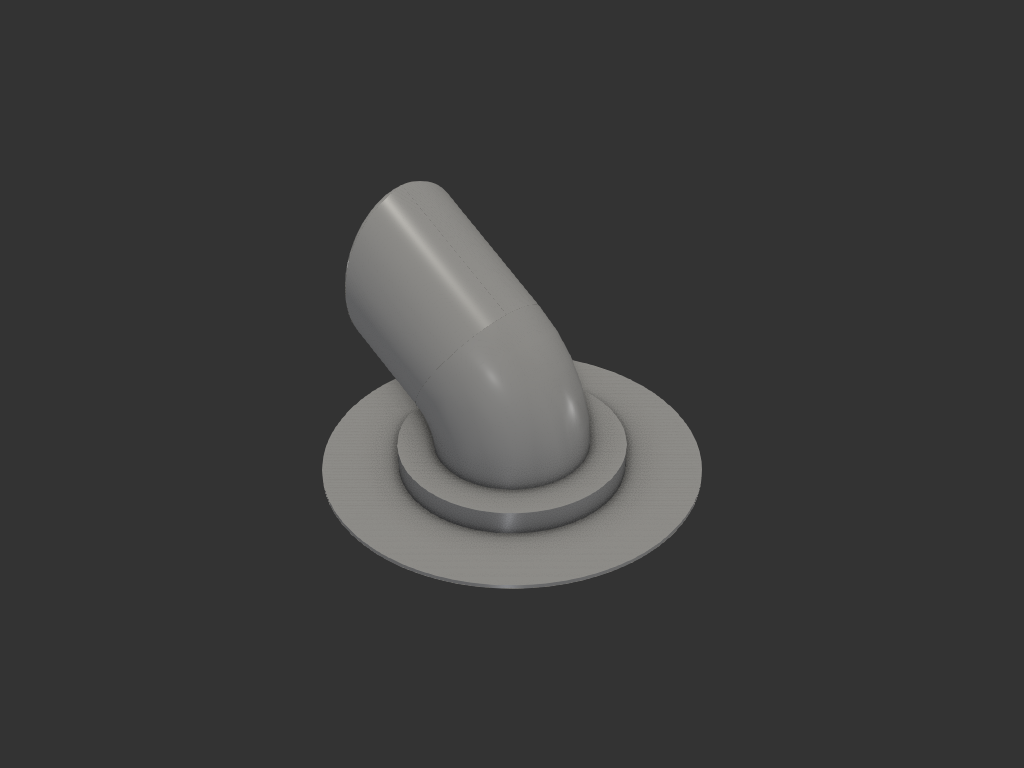
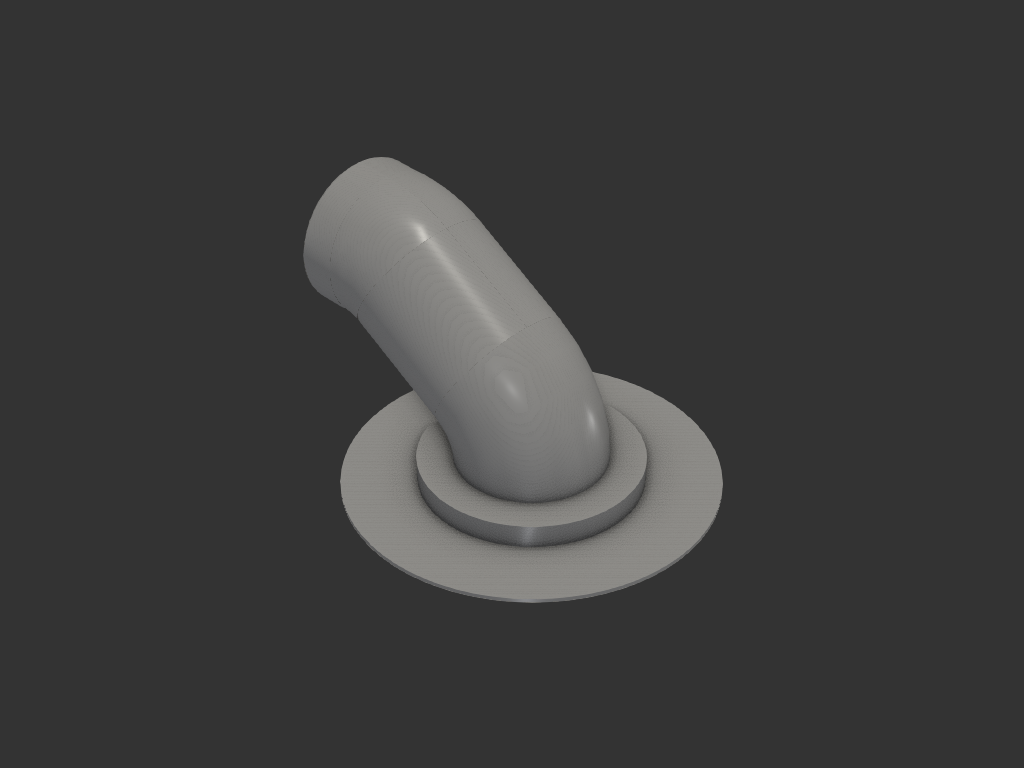
주방/식기세척기관_싱크대커버: 대각선 목 끝에서 수평으로 한 번 더 꺾기
출구 면을 지면에 수직으로 만들려고 대각선 목을 평면으로 잘라 두었는데,
그러면 단면이 타원이고 관이 비스듬히 꽂힌다. 대신 **R22 로 30° 더 꺾어
수평으로 만들고 10mm 직선**을 뽑았다 — 출구 면이 자연히 지면에 수직이 된다.

프로파일 계산은 빌더 밖으로 뺐다 (revolve 에 넘긴 스케치가 pending 에 남아
뒤따르는 연산이 그 면까지 집는다). NECK_OVER 와 수직 절단 박스는 필요 없어졌다.

상판 위 약 77, 중심에서 출구까지 약 58, PETG 약 31.6 g.
미확인: 싱크대 간섭, 굵은 호스 끝(⌀25.5) 통과, 서포트 없이 출력되는지

Claude-Session: https://claude.ai/code/session_01ADtXUDQy3sb4YV2DNysYDr

diff --git a/models/주방/식기세척기관_싱크대커버/cover.py b/models/주방/식기세척기관_싱크대커버/cover.py
@@ -56,6 +56,7 @@ from models.주방.식기세척기관_싱크대커버.params import (
     HOLE_D,
     MOUTH_FLARE,
     NECK_EXT,
+    HORIZ_EXT,
     NECK_WALL,
     NUT_H,
     NUT_FLUTE_R,
@@ -79,7 +80,6 @@ BOT = (Align.CENTER, Align.CENTER, Align.MIN)
 TOP = (Align.CENTER, Align.CENTER, Align.MAX)
 
 ELBOW_AXIS_PT = None
-NECK_OVER = 25.0        # 수직 절단 여유 — 비스듬히 잘리는 만큼 더 뽑아 둔다
 
 
 def build_cover():
@@ -98,6 +98,23 @@ def build_cover():
     oring = (Plane.XY * Circle((ORING_MEAN + ORING_W) / 2)
              - Plane.XY * Circle((ORING_MEAN - ORING_W) / 2))
 
+    th = math.radians(ELBOW_TURN)
+    tang = Vector(math.sin(th), 0, math.cos(th))
+    end_c = Vector(ELBOW_R - ELBOW_R * math.cos(th), 0,
+                   FLANGE_T + ELBOW_R * math.sin(th))
+    ext_pl = Plane(origin=end_c, z_dir=tang)
+    # 대각선 목 → 수평으로 한 번 더 꺾기 → 수평 목. 출구 면은 자연히 지면에 수직
+    p2 = end_c + tang * NECK_EXT
+    ctr2 = p2 + Vector(math.cos(th), 0, -math.sin(th)) * ELBOW_R
+    axis2 = Axis((ctr2.X, 0, ctr2.Z), (0, 1, 0))
+    turn2 = 90.0 - ELBOW_TURN
+    pl2 = Plane(origin=p2, z_dir=tang)
+    p3 = Vector(ctr2.X, 0, ctr2.Z + ELBOW_R)
+    pl3 = Plane(origin=p3, z_dir=(1, 0, 0))
+    x_cut = p3.X + HORIZ_EXT
+    prof2_out = pl2 * Circle(ELBOW_BORE / 2 + NECK_WALL)
+    prof2_in = pl2 * Circle(ELBOW_BORE / 2)
+
     with BuildPart() as part:
         # 칼라 — 나사 골지름 ⌀29.6. 파일럿 턱은 없다 (너트를 막았다).
         # 구멍 안에서의 중심은 나사산 꼭대기(⌀31.0)가 잡아준다
@@ -107,16 +124,13 @@ def build_cover():
             Cylinder(COLLAR_ROOT / 2, COLLAR_LEN - COLLAR_PILOT, align=TOP)
         Cylinder(FLANGE_D / 2, FLANGE_T, align=BOT)         # 플랜지 (상판 위)
         revolve(prof_out, axis=axis, revolution_arc=ELBOW_TURN)
-        th = math.radians(ELBOW_TURN)
-        tang = Vector(math.sin(th), 0, math.cos(th))
-        end_c = Vector(ELBOW_R - ELBOW_R * math.cos(th), 0,
-                       FLANGE_T + ELBOW_R * math.sin(th))
-        ext_pl = Plane(origin=end_c, z_dir=tang)
-        # 출구 면은 **지면에 수직**(x = 일정). 중심선 길이가 NECK_EXT 가 되는 x 에서 자른다
-        x_cut = end_c.X + NECK_EXT * math.sin(th)
         with BuildSketch(ext_pl):
             Circle(ELBOW_BORE / 2 + NECK_WALL)
-        extrude(amount=NECK_EXT + NECK_OVER)                # 직선 목 (아래에서 수직면으로 자른다)
+        extrude(amount=NECK_EXT)                            # 대각선 직선 목
+        revolve(prof2_out, axis=axis2, revolution_arc=turn2)
+        with BuildSketch(pl3):
+            Circle(ELBOW_BORE / 2 + NECK_WALL)
+        extrude(amount=HORIZ_EXT)                           # 수평 목
         add(thread)                                         # 나사산
 
         # 칼라–플랜지 이음 모따기 — **가장 빠듯한 곳**이다.
@@ -135,7 +149,11 @@ def build_cover():
         revolve(prof_in, axis=axis, revolution_arc=ELBOW_TURN, mode=Mode.SUBTRACT)
         with BuildSketch(ext_pl):
             Circle(ELBOW_BORE / 2)
-        extrude(amount=NECK_EXT + NECK_OVER, mode=Mode.SUBTRACT)
+        extrude(amount=NECK_EXT, mode=Mode.SUBTRACT)
+        revolve(prof2_in, axis=axis2, revolution_arc=turn2, mode=Mode.SUBTRACT)
+        with BuildSketch(pl3):
+            Circle(ELBOW_BORE / 2)
+        extrude(amount=HORIZ_EXT, mode=Mode.SUBTRACT)
 
         # 오링 홈 — 홈 안쪽이 ⌀35.9 라 구멍(31.5) 바깥 단단한 상판 위에 앉는다
         extrude(oring, ORING_DEPTH, mode=Mode.SUBTRACT)
@@ -143,11 +161,6 @@ def build_cover():
         # 출구 쪽 플랜지 평면 절단 — 싱크대 끝과의 간섭 회피. 플랜지 높이만 자른다
         with Locations((FLANGE_FLAT_X, 0, 0)):
             Box(FLANGE_D, FLANGE_D, FLANGE_T, align=(Align.MIN, Align.CENTER, Align.MIN),
-                mode=Mode.SUBTRACT)
-
-        # 출구를 수직면으로 자른다 (관축에 수직이 아니라 지면에 수직)
-        with Locations((x_cut, 0, 0)):
-            Box(FLANGE_D, FLANGE_D * 2, 200, align=(Align.MIN, Align.CENTER, Align.MIN),
                 mode=Mode.SUBTRACT)
 
         # 출구 나팔 — 호스가 꺾이는 지점의 날카로운 모서리를 없앤다.

diff --git a/models/주방/식기세척기관_싱크대커버/params.py b/models/주방/식기세척기관_싱크대커버/params.py
@@ -121,6 +121,7 @@ ELBOW_BORE = 33.0      # 엘보 구간 보어. 칼라(28.5)보다 **크게** 한
                        # 33 이면 굵은 부분 길이가 38mm 까지 통과한다 (28.5 는 24mm)
 ELBOW_RAMP = 0.3       # 보어가 28.5 → 33 으로 벌어지는 구간 (높이비)
 NECK_WALL = 2.0
+HORIZ_EXT = 10.0       # 두 번째 굽힘(수평) 뒤 직선 목. 사용 피드백: 대각선에서 수평으로 한 번 더 꺾어 10mm
 NECK_EXT = 30.0        # 엘보 끝에서 접선 방향으로 더 뻗는 직선 목.
                        # 사용자 피드백: 물이 은근히 튀어 들어간다 → 입구를 더 멀리 내민다
 MOUTH_FLARE = 2.5      # 출구 나팔 — 꺾이는 지점에 날카로운 모서리를 없앤다

diff --git a/models/주방/식기세척기관_싱크대커버/README.md b/models/주방/식기세척기관_싱크대커버/README.md
@@ -107,9 +107,9 @@
 | 출구 나팔 | R 2.5 | 꺾이는 지점의 날카로운 모서리를 없앤다 |
 | 너트 | ⌀42 × **11**, 홈 8 개 | 피치가 굵어져 2.4 바퀴를 물려면 이만큼 필요 |
 | 직선 목 | 엘보 끝에서 접선 방향 **30** (중심선) | 물이 튀어 들어가서 입구를 더 내밀었다 |
-| 출구 면 | **지면에 수직** (관축에 수직 아님) | 사용 피드백 |
+| 2차 굽힘 + 수평 목 | R 22, **30°** 더 꺾어 수평, 직선 **10** | 사용 피드백. 출구 면이 자연히 지면에 수직 |
 | 플랜지 출구쪽 | +x 가장자리를 **x=25 에서 평면 절단** | 싱크대 끝과 간섭. 오링 홈 바깥 벽 1.8 |
-| 상판 위 높이 | **약 76** (엘보만이면 38.8) | |
+| 상판 위 높이 | **약 77**, 중심에서 출구까지 약 58 (엘보만이면 38.8) | PETG 약 31.6 g |
 
 오링 홈 안쪽 가장자리가 ⌀38.0 이라 구멍(31.5) 바깥 **단단한 상판 위에** 온전히
 앉는다. 홈 안쪽 벽 2.00mm, 바깥 테두리 3.80mm.
@@ -345,9 +345,10 @@ x≈6mm 이고 접지 폭이 30mm 라 쓰러지지는 않는다. 나사 아래 1
 
 ## 상태
 
-- **iter_013 — 사용 피드백 반영, 출력 대기.** ① 출구에 직선 목 30mm 추가
+- **iter_013 (렌더 iter_004) — 확정, 출력 대기.** ① 출구에 직선 목 30mm 추가
   (물이 튀어 들어감) ② 출구 쪽 플랜지 가장자리를 x=25 에서 평면 절단
-  (싱크대 끝 간섭) ③ 출구 면을 관축 수직 → 지면 수직으로 변경
+  (싱크대 끝 간섭) ③ 대각선 목 끝에서 수평으로 30° 더 꺾고 10mm 직선.
+  미확인: 싱크대 간섭, 굵은 호스 끝(⌀25.5)의 통과, 서포트 없이 출력되는지
 
 - **iter_012 — 완료.** 출력·설치·사용 확인. 나사가 물리고 조여진다.
   여유 0.15 → 0.35, 옆면 25° → **45°**, 피치 2.5 → 4.5, 파일럿 턱 제거
